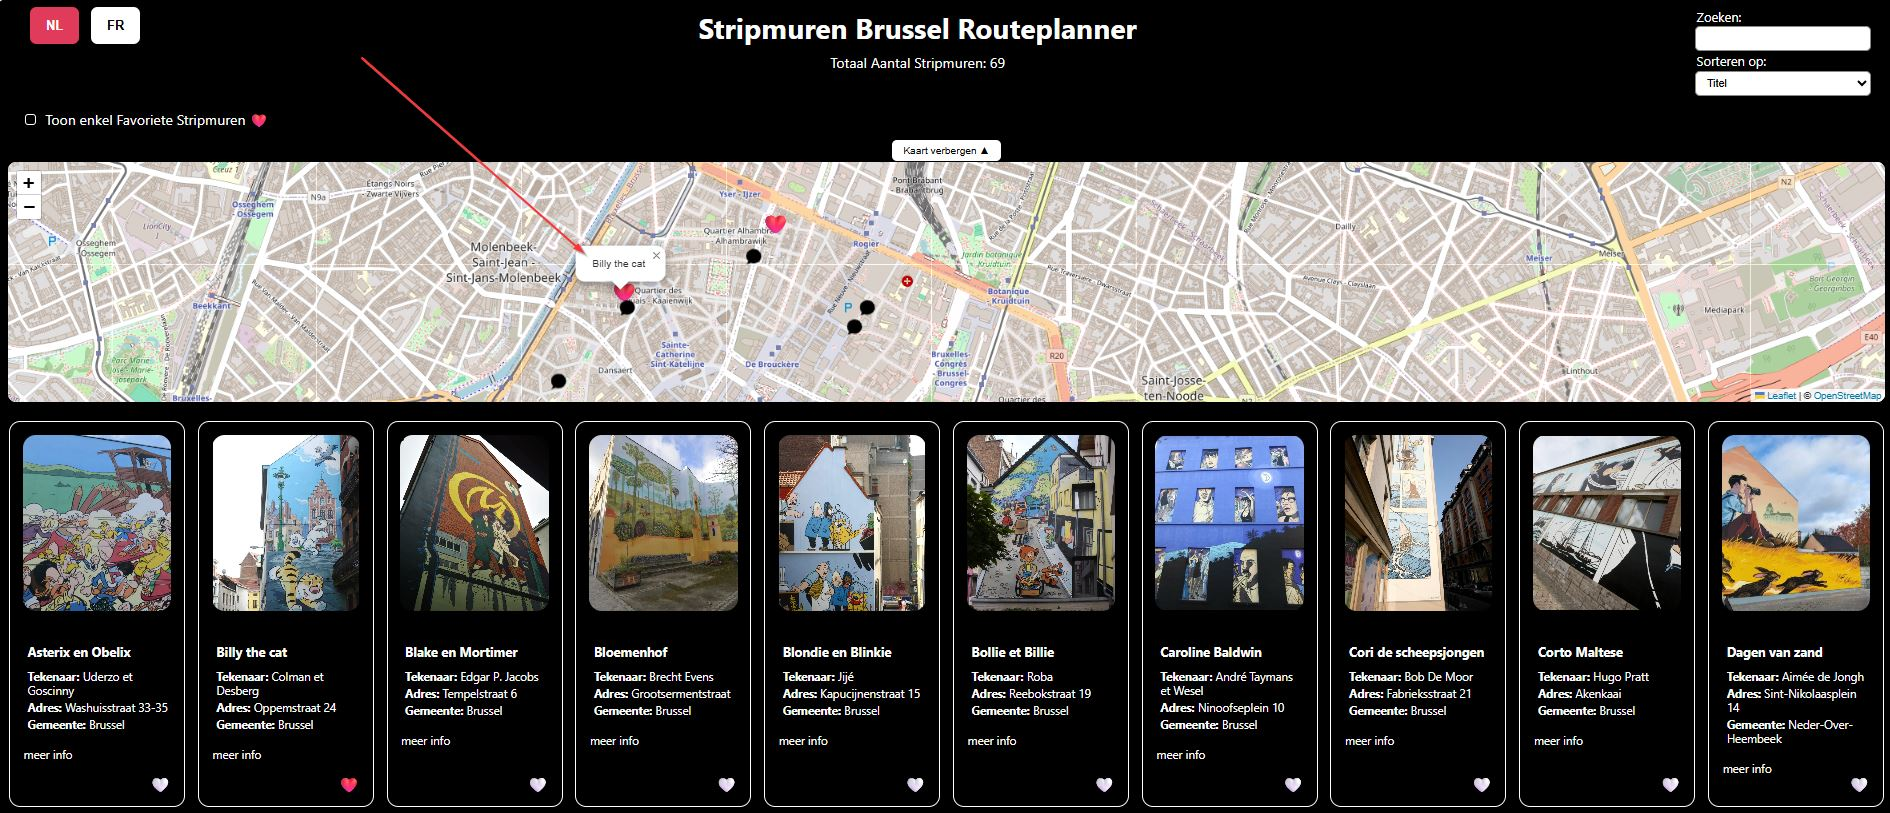
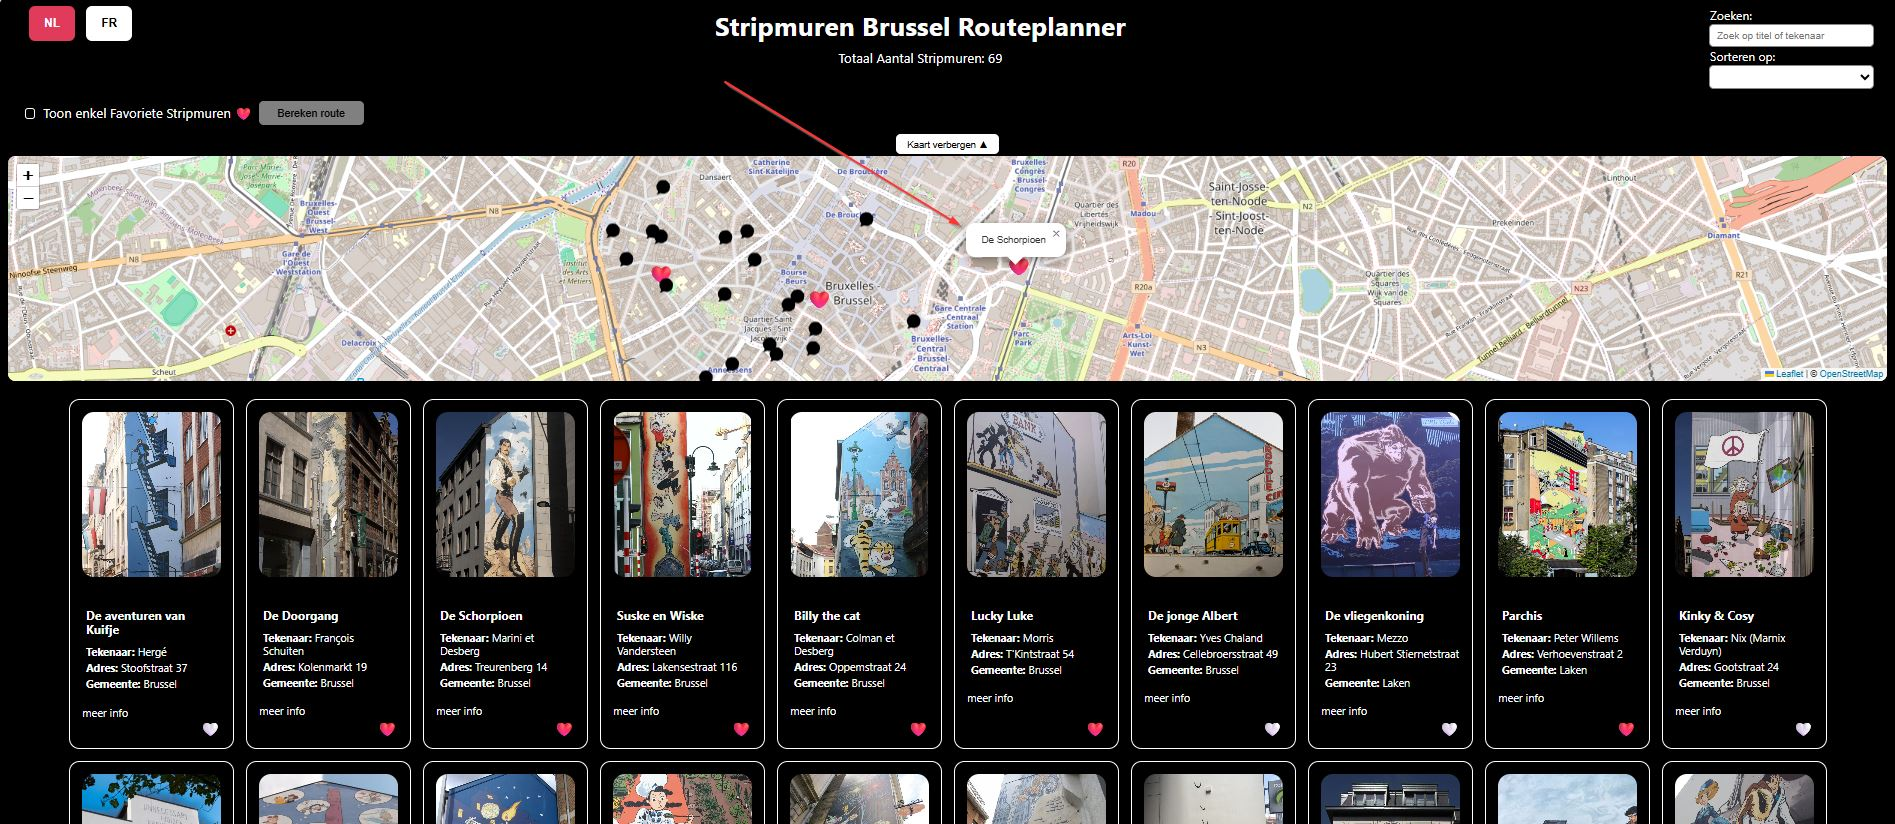
Update README

diff --git a/README.md b/README.md
@@ -28,12 +28,12 @@ Gebruikers kunnen:
 ### Functionaliteiten 
 
 - Taal NL/FR: klik op icoontje om de taal van de volledige website te wijzigen 
-    voorkeur wordt opgeslagen en duidelijk visueel aangeduid (roze kleur))
+    voorkeur wordt opgeslagen en duidelijk visueel aangeduid (roze kleur)
 
 - Zichtbaarheid aantal stripmuren: elke keer wordt het aantal stripmuren (ook na filtering/enkel favoriete muren tonen enz) duidelijk getoond
 
-- Zoeken: de ingetypte tekst zal zoeken in alle data van de stripmuren (niet hoofdletter gevoelig) en de lijst met resultaten geven (alsook het aantal). 
-    vb. Geef "steen" in => geeft 2 resultaten (stripmuur met tekenaar Willy Vandersteen - en stripmuur met adres vlaamseSTEENweg)
+- Zoeken: het inputveld geeft aan dat de ingetypte tekst zal zoeken op titel en tekenaar van de stripmuren (niet hoofdletter gevoelig) en de lijst met resultaten zal geven (alsook het aantal). 
+    vb. Geef "steen" in => geeft als resultaat (stripmuur met tekenaar Willy Vandersteen)
 
     ==> de map toont nu ook enkel de gefilterde resultaten (map kan hierdoor worden uitgezoomd als de stripmuren zich dicht bij elkaar bevinden)
 
@@ -44,16 +44,19 @@ Gebruikers kunnen:
 
 - Toon enkel Favoriete Stripmuren: checkbox die overschakelt naar aangeduide favoriete stripmuren = stripmuren met ❤ icoontje (aantal ook zichtbaar)
 
-    - de button "bereken route" verschijnt nu ook
+    - de button "bereken route" verschijnt nu ook 'aanklikbaar' indien er minstens 2 favoriete stripmuren werden aangeduid 
     - de map wordt iets vergroot zodat bij een route een duidelijker beeld kan gegeven worden
     - de map toont enkel de favoriete stripmuren met een hart icoontje ipv een tekstballon
     - afvinken van een favoriet zal deze onmiddellijk uit de lijst wegfilteren (aantal wordt ook aangepast)
 
 - Button Bereken Route (bij filtering op favoriete stripmuren): er wordt een wandelroute berekend en getoond op de map + instructies
 
-    - veiligheid en alert bij minder dan 2 favoriete muren (je kan geen route berekenen met maar 1 of geen punten)
     - routeinstructies die zichtbaar zijn op de map (je kan volgen waar je zit bij scrollen op de instructie)
     - routeinstructies zijn in de taal van de website (NL of FR)
+    opmerking:
+    - deze button is niet aanklikbaar zolang favoriete stripmuren niet werd aangevinkt. Bij hover over de knop, krijg je hiervoor de instructie te zien
+    - deze button is niet aanklikbaar zolang er minder dan 2 favoriete stripmuren worden aangeduid (je kan geen route berekenen met minder dan 2 punten). Bij hover over de knop, krijg je hiervoor de instructie te zien.
+
 
 - Button Kaart verbergen / Kaart tonen: zorgt voor weergave van enkel de stripmuurkaarten of standaard weergave van zowel stripmuurkaarten als map met locatie van de stripmuurkaarten (points)
 
@@ -123,78 +126,78 @@ Dataset:
 ### 3.1 DOM-manipulatie:
 
     Selecteren van elementen: 
-        - main.js lijnnr 13-25, 104-105, 108-128 (document.getElementById, querySelector, ClassList)
+        - main.js lijnnr 13-25, 104-105, 113-135 (document.getElementById, querySelector, ClassList)
         - render.js lijnnr 87
 
     Renderen van HTML kaarten: 
         - file render.js: lijnnr 30-35 + 54-94
 
     Event listeners:
-        - main.js lijnnr 231 & 244-245 & 304 & 373 = click events (inklapbare map, taal en favorieten en popup kaart en bereken route)
-        - main.js lijnr 249 = input event (zoeken)
-        - main.js lijnnr 261 & 271  = change event (sorteren en filteren favorieten)
+        - main.js lijnnr 265 & 278-279 & 341 & 414 = click events (inklapbare map, taal en favorieten en popup kaart en bereken route)
+        - main.js lijnr 283 = input event (zoeken)
+        - main.js lijnnr 298 & 309  = change event (sorteren en filteren favorieten)
 
 ### 3.2 Modern JavaScript:
 
     - const:
         gebruikt voor waarden die enkel geinitieerd en niet heringesteld worden
         - api.js lijnnr 5 & 10 & 16 & 17
-        - language.js lijnnr 6 & 191
-        - main.js lijnnr 13-44 & & 76 & 95 & 131 & 192 & 211 & 250 & 262 & 273 & 306 & 310 & 333 & 358 & 367 & 379 & 382 & 386 & 430 & 434 & 435 & 447 & 449 & 453 
+        - language.js lijnnr 3 & 83 & 85
+        - main.js lijnnr 13-44 & & 76 & 95 & 138 & 166 & 216 & 226 & 245 & 284 & 299 & 311 & 343 & 347 & 370 & 395 & 404 & 416 & 419 & 423 & 438 & 466 & 470-471 & 483 & 485 & 489 
         - map.js lijnnr 19-22 & 43
 
     - let:
         gebruikt voor variabele waarden (worden heringesteld)
-        - main.js lijnnr 53-64
+        - main.js lijnnr 53-64 & 191-195 & 199-200 & 213-215 & 412 & 418
         - render.js lijnnr 5-49 & 87
 
     - template literals:
         vooral gebruikt voor HTML structuur dynamisch op te bouwen
         - api.js lijnnr 13 (voor error foutmelding, met literals duidelijker/leesbaarder)
-        - main.js lijnnr 44 & 145-146 & 151-152 
+        - main.js lijnnr 44 & 153-154 & 159-160 
         - render.js lijnnr 30-35 & 54-81
 
     - iteratie over arrays
         door mijn (lijst)items loopen om de UI te renderen
         - main.js lijnnr 73 & 97 (forEach)
-        - main.js lijnnr 166 & 182 (for)
+        - main.js lijnnr 199 & 215 & 418 (for)
         - render.js lijnnr 90
 
     - array methodes
         sort en filter functies gebruikt (MDN tutorial)
-        - main.js lijnnr 196 & 201 (.sort)
-        - main.js lijnnr 56 & 321 & 449 (.filter)
+        - main.js lijnnr 230 & 235 (.sort)
+        - main.js lijnnr 56 & 358 & 485 (.filter)
 
     - arrow functions
         waar duidelijk gebruikt voor events en array methodes
-        - main.js lijnnr 56 & 73 & 97 & 196 & 201 & 321 & 449 (array methodes)
-        - main.js lijnnr 231 & 244-245 & 249 & 261 & 271 & 377 (events)
+        - main.js lijnnr 56 & 72-73 & 97 & 230 & 235 & 358 & 485 (array methodes)
+        - main.js lijnnr 265 & 278-279 & 283 & 298 & 309 & 414 (events)
 
     - conditional (ternary) operator 
-        moderne if..else gebruikt bij condities met 1 lijn code als resultaat voor leesbaarheid - zie ook functie updateStatus in main.js lijnnr 140 en updateToggleMapText in main.js lijnnr 210
-        - language.js lijnner 69 & 70
-        - main.js lijnnr 144-146 & 150-152 & 167 & 329 & 391-393 & 421-423 
+        moderne if..else gebruikt bij condities met 1 lijn code als resultaat voor leesbaarheid - zie ook functie updateStatus in main.js lijnnr 148, updateRouteButton in main lijnnr. 164 en updateToggleMapText in main.js lijnnr 244
+        - language.js lijnner 85 & 102-116
+        - main.js lijnnr 109-110 & 152-154 & 158-160 & 171-173 & 177-179 & 183-185 & 200 & 148-250 & 252-254 & 366 & 428-430 
         - map.js lijnnr 19 & 22 & 27-29
         - render.js lijnnr 9 & 13 & 17 & 21 & 36-45 & 49
 
     - Callback functions 
         Event listeners gebruiken callbacks omdat code pas uitgevoerd wordt wanneer event plaatsvindt
-        - main.js lijnnr 244-245 (callback = () => switchLanguage("NL") of ("FR"), wordt doorgegeven aan addEventListener)
-        - main.js lijnnr 249 & 261 & 271 & 304 & 377 (callback = () => {...})
-        - main.js lijnnr 56 & 321 & 449 (filter callbacks: filter roept mijn functie aan om te beslissen welke elementen blijven)
+        - main.js lijnnr 278-279 (callback = () => switchLanguage("NL") of ("FR"), wordt doorgegeven aan addEventListener)
+        - main.js lijnnr 283 & 298 & 309 & 304 & 414 (callback = () => {...})
+        - main.js lijnnr 56 & 358 & 485 (filter callbacks: filter roept mijn functie aan om te beslissen welke elementen blijven)
         - main.js lijnnr 73 & 97
         (forEach callbacks =(entry => ... en img => ..) : forEach voert mijn functie uit voor elk element )
         
 
     - async/await/promises
         - api.js async function fetchMurals() 
-        - main.js lijnnr 444-474 async function loadMurals() met try/catch 
+        - main.js lijnnr 480-509 async function loadMurals() met try/catch 
 
     - Observer API
         - main.js lijnnr 64-99 IntersectionObserver (lazy image loading)
 
     - Local Storage
-        - main.js lijnnr 51-59 & 103 & 327 (favoriteMurals & PreferredLanguage)
+        - main.js lijnnr 51-59 & 103 & 364 (favoriteMurals & PreferredLanguage)
 
 ### 3.3 Data & API:
 
@@ -248,20 +251,20 @@ Dataset:
     - Gebruiksvriendelijke elementen (verwijderknoppen, icoontjes,..)
 
         Button "Toon kaart/verberg kaart" geeft je de mogelijkheid om gebruiksvriendelijk door alle kaarten te scrollen zonder dat de kaart "in de weg" staat (index.html lijnnr 61-63)
-            style.css lijnnr 174-208 & 530-549 
+            style.css lijnnr 176-208 & 532-551 
 
         checkbox "toon enkel favoriete muren" (index.html lijnnr 54-55)
-            style.css lijnnr 105-144 & 160-166 & 415-420 & 490-499 & 506-511
+            style.css lijnnr 107-144 & 162-168 & 417-422 & 492-501 & 508-513
 
-        button "bereken route" (verschijnt enkel bij check favoriete muren=true (zie main.js lijnnr 278-294 & 339-348))
-            style.css lijnnr 92-104 & 501
+        button "bereken route" (enkel aanklikbaar bij check favoriete muren (min 2)=true (zie main.js lijnnr 309-336 & 341-390 en function updateRouteButton() lijnnr 164-187 ))
+            style.css lijnnr 92-104 & 503
 
         aanklikbaar icoontje (❤) voor aanduiden favoriete stripmuur (render.js lijnnr 76-78 )
-            style.css lijnnr 343-354
+            style.css lijnnr 345-356
 
 
         buttons voor taal NL/FR (index.html lijnnr 20-23)
-            style.css lijnnr 39-57 & 447-450
+            style.css lijnnr 39-57 & 449-452
 
         dropdown voor sorteren op titel, tekenaar (index.html lijnnr 39-45)
             style.css lijnnr 65-90
@@ -269,8 +272,8 @@ Dataset:
     - Responsive design
         style.css bestaat uit volgende delen:
             - MOBILE FIRST (start lijnnr 23) voor kleine schermen tot 700px
-            - TABLET (start lijnnr 388) voor schermen van 701px tot 1099px
-            - DESKTOP (start lijnnr 434) voor desktop (vanaf 1100px)
+            - TABLET (start lijnnr 390) voor schermen van 701px tot 1099px
+            - DESKTOP (start lijnnr 436) voor desktop (vanaf 1100px)
 
 ### 3.6 Tooling & structuur:
 
@@ -330,8 +333,8 @@ Dataset:
 ![Taal FR](screenshots/taal.jpg)
 
 
-- Zoeken: de ingetypte tekst zal zoeken in alle data van de stripmuren (niet hoofdletter gevoelig) en de lijst met resultaten geven (alsook het aantal). 
-    vb. Geef "steen" in => geeft 2 resultaten (stripmuur met tekenaar Willy Vandersteen - en stripmuur met adres vlaamseSTEENweg)
+- Zoeken: Zoeken: het inputveld geeft aan dat de ingetypte tekst zal zoeken op titel en tekenaar van de stripmuren (niet hoofdletter gevoelig) en de lijst met resultaten zal geven (alsook het aantal). 
+    vb. Geef "steen" in => geeft als resultaat (stripmuur met tekenaar Willy Vandersteen)
     ==> de map toont nu ook enkel de gefilterde resultaten (map kan hierdoor worden uitgezoomd als de stripmuren zich dicht bij elkaar bevinden)
 ![Zoekfunctie](screenshots/zoeken.jpg)
 
@@ -345,7 +348,13 @@ Dataset:
 
 
 - Button Bereken Route (bij filtering op favoriete stripmuren): er wordt een wandelroute berekend en getoond op de map + instructies
-![Filter Favoriete Stripmuren](screenshots/bereken-route.jpg)
+![Button Bereken Route](screenshots/bereken-route.jpg)
+
+- Instructies bij Button Bereken Route
+    - niet aanklikbaar zolang favoriete stripmuren niet werd aangevinkt: instructie wordt getoond 
+![Button Bereken Route](screenshots/bereken-route-instructie-favorieten.jpg)
+    - niet aanklikbaar zolang er minder dan 2 favoriete stripmuren worden aangeduid: instructie wordt getoond 
+![Button Bereken Route](screenshots/bereken-route-instructie-aantal.jpg)
 
 
 - Map: bevat alle stripmuren die getoond worden onder de map
